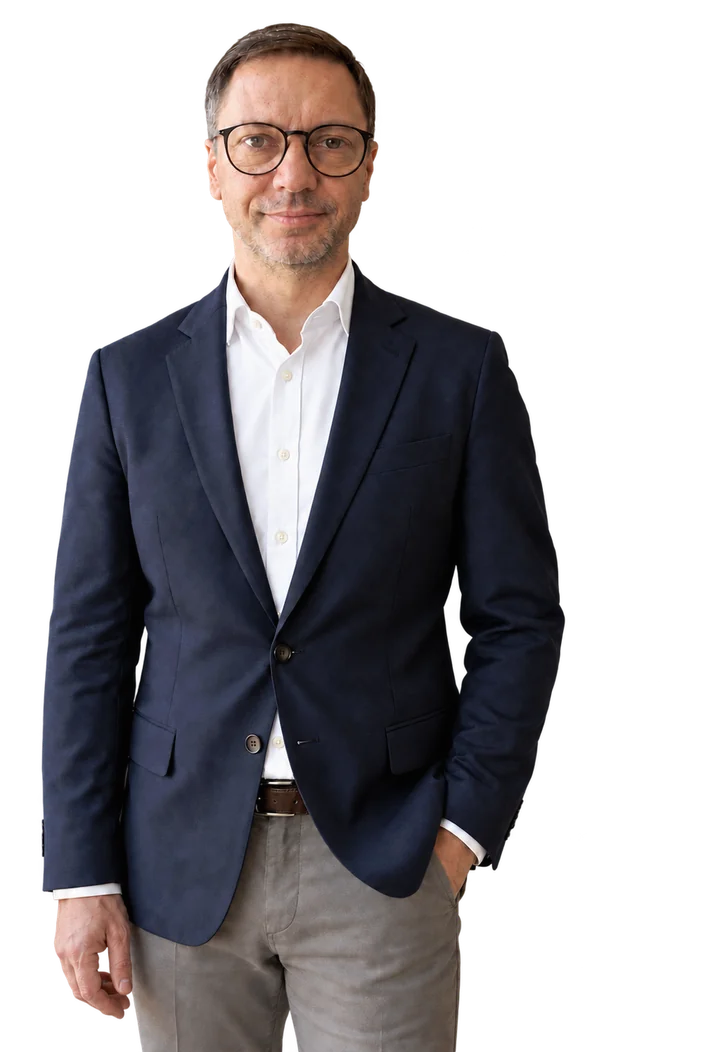
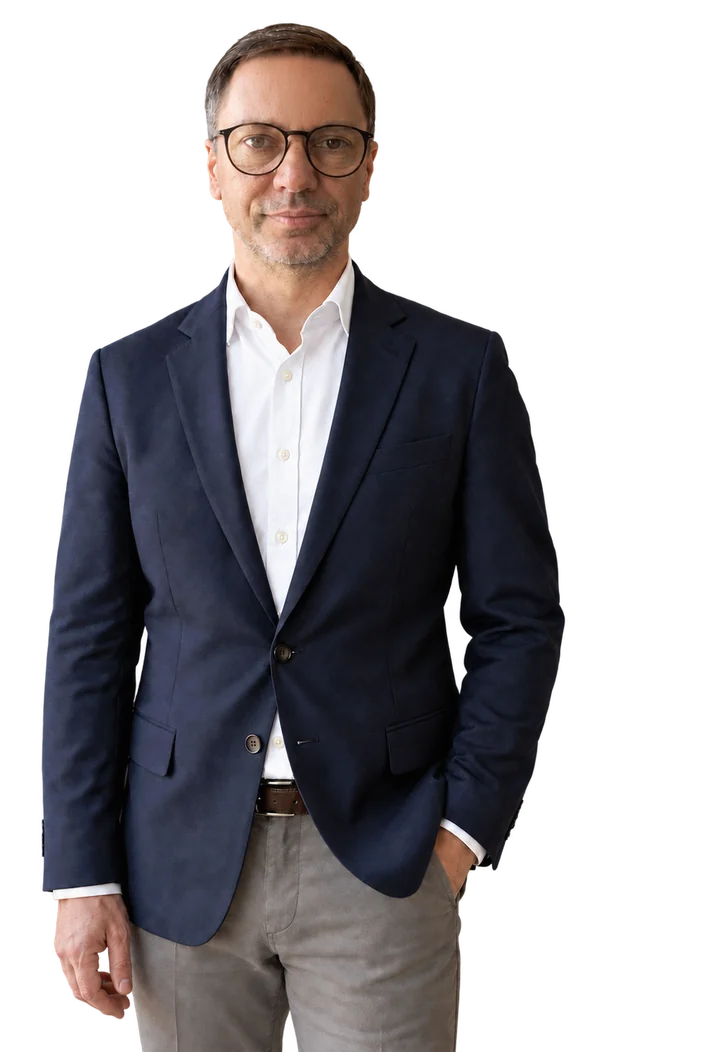
Retouch facial creases locally and preserve portrait detail

Changed region(s): [[0.3056, 0.0913, 0.5194, 0.2433]]

diff --git a/public/index.html b/public/index.html
@@ -81,7 +81,7 @@
         "name": "Bartłomiej Przytuła",
         "jobTitle": "Mentor biznesowy, coach i psycholog",
         "description": "Praktyk biznesu z ponad 20-letnim doświadczeniem w zarządzaniu sprzedażą i operacjami w firmach FMCG. Magister psychologii (Uniwersytet SWPS, 2004). Mentor biznesowy i coach.",
-        "image": "https://przyjacielodyseusza.pl/assets/img/bartlomiej-przytula.jpg?v=20261015",
+        "image": "https://przyjacielodyseusza.pl/assets/img/bartlomiej-przytula.jpg?v=20261015-face2",
         "worksFor": { "@id": "https://przyjacielodyseusza.pl/#firma" },
         "knowsAbout": ["mentoring", "coaching", "zarządzanie sprzedażą", "zarządzanie operacyjne", "przywództwo", "psychologia", "FMCG"],
         "alumniOf": [
@@ -135,11 +135,11 @@
       <figure class="hero__figure">
         <picture class="hero__picture">
           <source media="(max-width: 34.99em), (max-width: 47.99em) and (min-height: 35.01em)"
-                  srcset="/assets/img/bartlomiej-przytula-rozmowa-448.webp?v=20261015 448w, /assets/img/bartlomiej-przytula-rozmowa-672.webp?v=20261015 672w, /assets/img/bartlomiej-przytula-rozmowa-896.webp?v=20261015 896w"
+                  srcset="/assets/img/bartlomiej-przytula-rozmowa-448.webp?v=20261015-face2 448w, /assets/img/bartlomiej-przytula-rozmowa-672.webp?v=20261015-face2 672w, /assets/img/bartlomiej-przytula-rozmowa-896.webp?v=20261015-face2 896w"
                   sizes="120vw" width="896" height="1098">
         <img class="hero__portrait"
-             src="/assets/img/bartlomiej-przytula-720.webp?v=20261015"
-             srcset="/assets/img/bartlomiej-przytula-480.webp?v=20261015 480w, /assets/img/bartlomiej-przytula-720.webp?v=20261015 720w, /assets/img/bartlomiej-przytula-960.webp?v=20261015 960w"
+             src="/assets/img/bartlomiej-przytula-720.webp?v=20261015-face2"
+             srcset="/assets/img/bartlomiej-przytula-480.webp?v=20261015-face2 480w, /assets/img/bartlomiej-przytula-720.webp?v=20261015-face2 720w, /assets/img/bartlomiej-przytula-960.webp?v=20261015-face2 960w"
              sizes="(min-width: 35em) and (max-height: 35em) 34vw, (max-width: 47.99em) 22rem, (max-width: 64em) 40vw, (min-width: 100em) min(40vw, 65vh, 1408px), (min-width: 80em) 36rem, 46vw"
              width="960" height="1403"
              alt="Bartłomiej Przytuła, mentor biznesowy, coach i psycholog"
@@ -404,8 +404,8 @@
 
       <figure class="about__figure reveal">
         <div class="frame frame--chamfer">
-          <img src="/assets/img/bartlomiej-przytula-rozmowa-672.webp?v=20261015"
-               srcset="/assets/img/bartlomiej-przytula-rozmowa-448.webp?v=20261015 448w, /assets/img/bartlomiej-przytula-rozmowa-672.webp?v=20261015 672w, /assets/img/bartlomiej-przytula-rozmowa-896.webp?v=20261015 896w"
+          <img src="/assets/img/bartlomiej-przytula-rozmowa-672.webp?v=20261015-face2"
+               srcset="/assets/img/bartlomiej-przytula-rozmowa-448.webp?v=20261015-face2 448w, /assets/img/bartlomiej-przytula-rozmowa-672.webp?v=20261015-face2 672w, /assets/img/bartlomiej-przytula-rozmowa-896.webp?v=20261015-face2 896w"
                sizes="(max-width: 29em) calc(100vw - 4rem), (max-width: 55.99em) 396px, (max-width: 74em) 38vw, (min-width: 100em) clamp(396px, min(20.625vw, 41.25vh), 792px), 396px"
                width="900" height="1103" loading="lazy" decoding="async"
                alt="Bartłomiej Przytuła, mentor biznesowy, coach i psycholog, siedzi w fotelu i patrzy w obiektyw">
